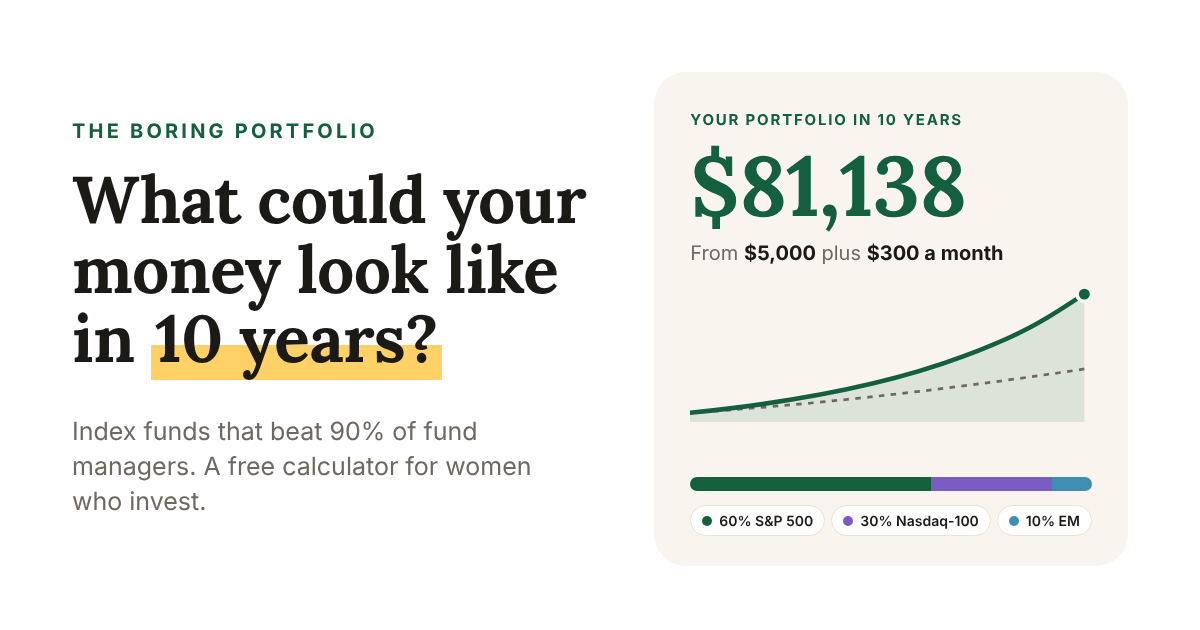
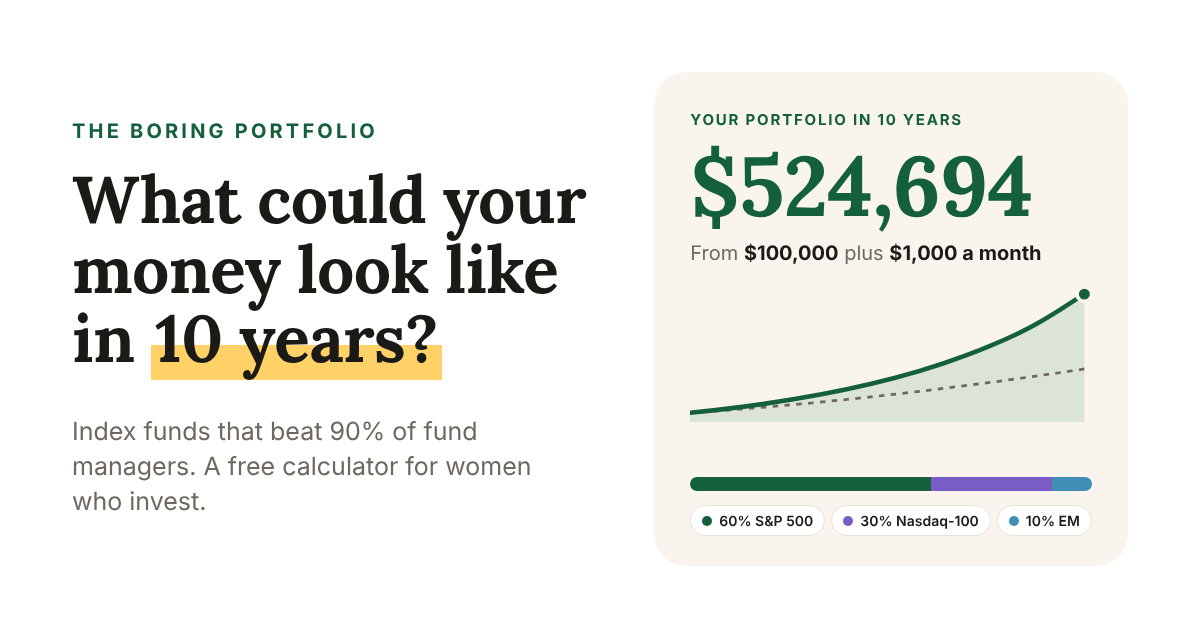
Share image: $100,000 plus $1,000 a month example
Claude-Session: https://claude.ai/code/session_01DZofUR4nw4EtURrYPKYGJz

Changed region(s): [[0.6167, 0.2413, 0.8633, 0.3619], [0.6167, 0.3921, 0.8633, 0.4222]]

diff --git a/index.html b/index.html
@@ -9,7 +9,7 @@
 <meta property="og:image" content="https://the-boring-portfolio.vercel.app/og-image.png">
 <meta property="og:image:width" content="1200">
 <meta property="og:image:height" content="630">
-<meta property="og:image:alt" content="The Boring Portfolio calculator showing $81,138 after 10 years from $5,000 plus $300 a month">
+<meta property="og:image:alt" content="The Boring Portfolio calculator showing $524,694 after 10 years from $100,000 plus $1,000 a month">
 <meta name="twitter:card" content="summary_large_image">
 <meta name="twitter:title" content="The Boring Portfolio: what could your money look like in 10 years?">
 <meta name="twitter:description" content="See what your money could grow to in index funds that beat 90% of fund managers. A free calculator for women who invest, plus: buy a home or invest the deposit?">
